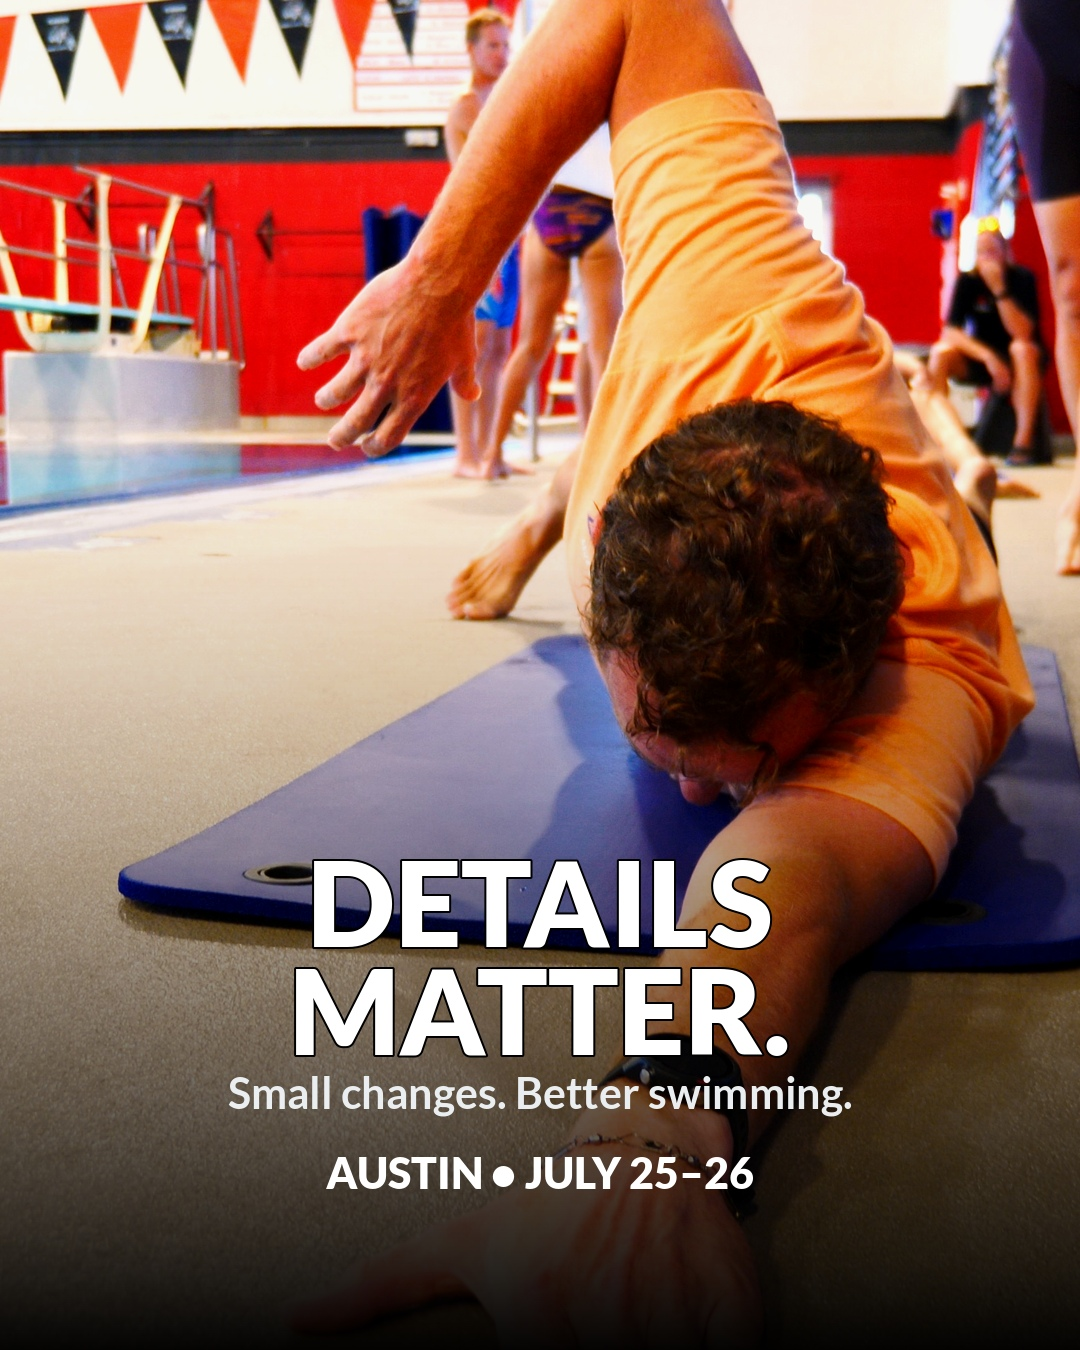
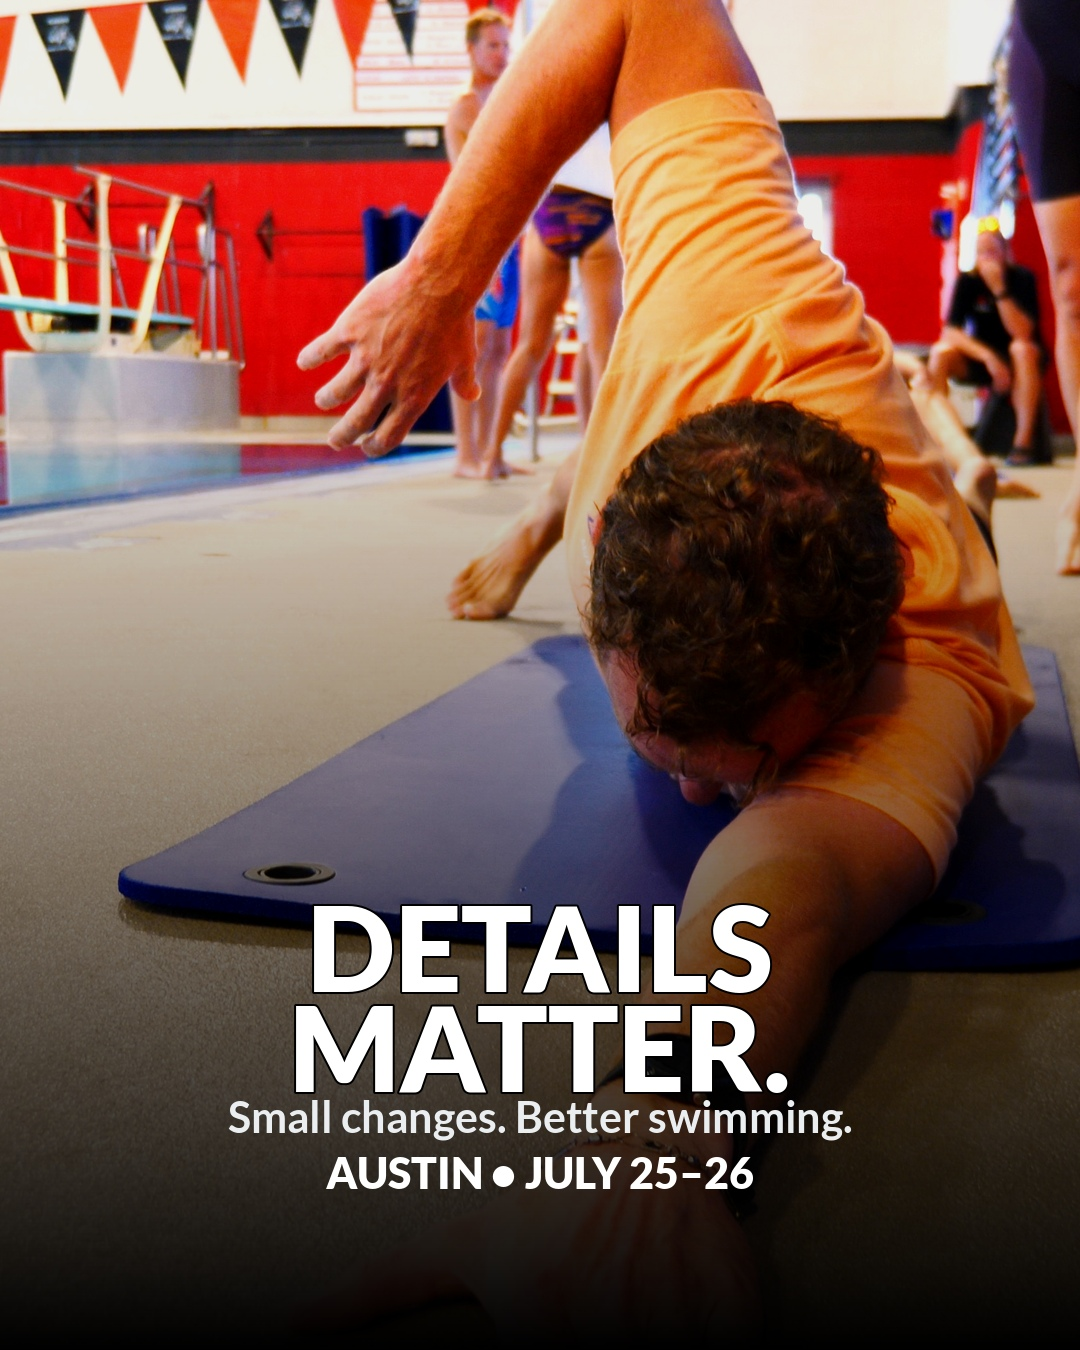
Tighten social graphic text lockups and deepen bottom gradients

diff --git a/austin-pool-school-review/index.html b/austin-pool-school-review/index.html
@@ -15,4 +15,4 @@ const posts=[
 ['08-detail-matters.jpg','VALUE','The details make the difference','Small technique changes can lead to meaningful progress. Get focused coaching and drills designed to help you apply it back in your own training.'],
 ['09-personal-feedback.jpg','VALUE','Real-time feedback','See it. Understand it. Practice it. Bring your swim questions to Austin and leave with practical tools for your next session.'],
 ['10-austin-register-now.jpg','EVENT PROMO','Austin Pool School: Register now','July 25–26, 2026 · Austin Aquatics and Sports Academy · $599\n\nYour next opportunity to break out of the dreaded swim plateau starts here. Register now.']
-];let i=0;const $=id=>document.getElementById(id);function render(){let p=posts[i];$('title').textContent=`Post ${i+1} of ${posts.length}`;$('graphic').src='./assets/'+p[0]+'?v=outdoor-austin-20260710';$('headline').textContent=p[2];$('caption').textContent=p[3];$('type').textContent=p[1];$('prev').disabled=i===0;$('next').disabled=i===posts.length-1;$('thumbs').innerHTML=posts.map((x,n)=>`<button class="thumb ${n===i?'active':''}" aria-label="View post ${n+1}" onclick="go(${n})"><img src="./assets/${x[0]}?v=outdoor-austin-20260710"></button>`).join('')};function go(n){i=n;render()}$('prev').onclick=()=>go(i-1);$('next').onclick=()=>go(i+1);document.addEventListener('keydown',e=>{if(e.key==='ArrowLeft'&&i)go(i-1);if(e.key==='ArrowRight'&&i
+];let i=0;const $=id=>document.getElementById(id);function render(){let p=posts[i];$('title').textContent=`Post ${i+1} of ${posts.length}`;$('graphic').src='./assets/'+p[0]+'?v=compact-dark-20260710';$('headline').textContent=p[2];$('caption').textContent=p[3];$('type').textContent=p[1];$('prev').disabled=i===0;$('next').disabled=i===posts.length-1;$('thumbs').innerHTML=posts.map((x,n)=>`<button class="thumb ${n===i?'active':''}" aria-label="View post ${n+1}" onclick="go(${n})"><img src="./assets/${x[0]}?v=compact-dark-20260710"></button>`).join('')};function go(n){i=n;render()}$('prev').onclick=()=>go(i-1);$('next').onclick=()=>go(i+1);document.addEventListener('keydown',e=>{if(e.key==='ArrowLeft'&&i)go(i-1);if(e.key==='ArrowRight'&&i
